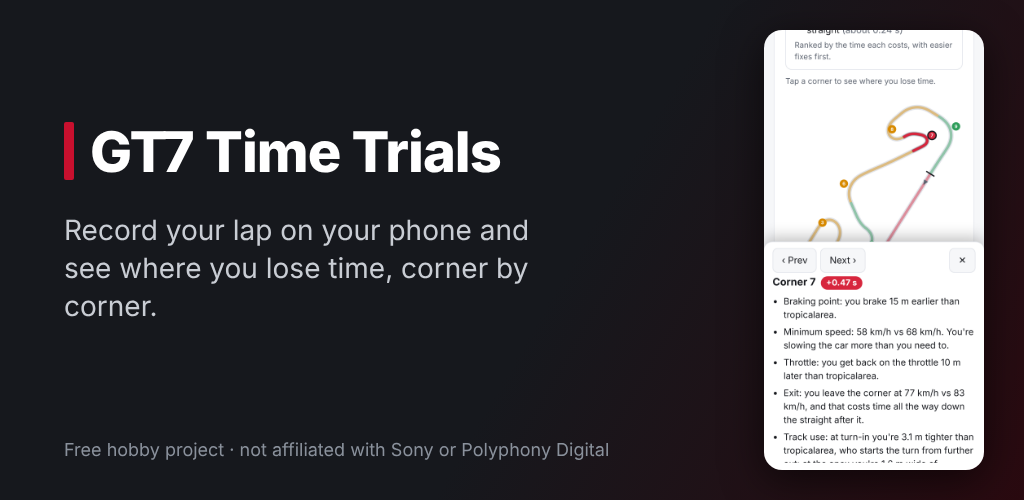
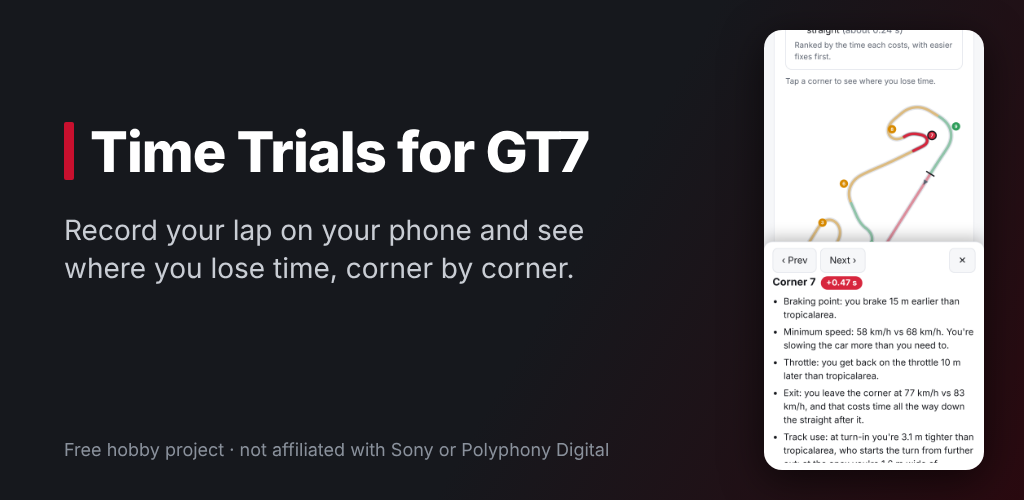
Android: ready for Google Play (API 36, Play bundle, new name) (#33)
* Android: target API 36 for Google Play, Play bundle signed with an upload key from secrets

Android 16 sends Back through OnBackInvokedCallback for apps targeting 36, so Back in the page uses that.
Branch builds are checked but no longer replace the test release.

Claude-Session: https://claude.ai/code/session_019VPhqUb8CvhbbqWw2Es8kT

* Name the app "Time Trials for GT7" for Google Play

Claude-Session: https://claude.ai/code/session_019VPhqUb8CvhbbqWw2Es8kT

---------

diff --git a/docs/play/feature.html b/docs/play/feature.html
@@ -1,14 +1,14 @@
 <html><head><style>
 body{margin:0;width:1024px;height:500px;overflow:hidden;font-family:-apple-system,"Segoe UI",Roboto,Helvetica,Arial,sans-serif;
  background:linear-gradient(120deg,#16181d 0%,#16181d 55%,#2a0a10 100%);color:#fff;position:relative}
-.t{position:absolute;left:64px;top:118px;width:520px}
+.t{position:absolute;left:64px;top:118px;width:640px}
 .bar{display:inline-block;width:10px;height:58px;background:#C8102E;vertical-align:-8px;margin-right:16px;border-radius:2px}
 h1{font-size:56px;margin:0;font-weight:800;letter-spacing:-1px}
-p{font-size:28px;line-height:1.35;color:#c9cdd4;margin:26px 0 0}
+p{font-size:28px;max-width:540px;line-height:1.35;color:#c9cdd4;margin:26px 0 0}
 small{position:absolute;left:64px;bottom:40px;font-size:18px;color:#8a919c}
 img{position:absolute;right:40px;top:30px;height:440px;border-radius:18px;box-shadow:0 10px 40px rgba(0,0,0,.6)}
 </style></head><body>
-<div class="t"><h1><span class="bar"></span>GT7 Time Trials</h1>
+<div class="t"><h1><span class="bar"></span>Time Trials for GT7</h1>
 <p>Record your lap on your phone and see where you lose time, corner by corner.</p></div>
 <small>Free hobby project · not affiliated with Sony or Polyphony Digital</small>
 <img src="phone-5.png">

diff --git a/android/app/src/main/java/io/github/gt7timetrials/MainActivity.java b/android/app/src/main/java/io/github/gt7timetrials/MainActivity.java
@@ -17,6 +17,8 @@ import android.os.Bundle;
 import android.os.Environment;
 import android.provider.MediaStore;
 import android.widget.FrameLayout;
+import android.window.OnBackInvokedCallback;
+import android.window.OnBackInvokedDispatcher;
 import android.view.WindowInsets;
 import android.view.WindowManager;
 import android.webkit.JavascriptInterface;
@@ -43,6 +45,7 @@ public class MainActivity extends Activity {
     private Recorder recorder;
     private Thread recorderThread;
     private ValueCallback<Uri[]> fileCallback;
+    private OnBackInvokedCallback back; // Android 13+: Back goes back in the page while there's somewhere to go
 
     @Override
     protected void onCreate(Bundle state) {
@@ -77,6 +80,11 @@ public class MainActivity extends Activity {
                 if ("gt7-timetrials.github.io".equals(url.getHost())) return false;
                 openOutside(url);
                 return true;
+            }
+
+            @Override
+            public void doUpdateVisitedHistory(WebView view, String url, boolean isReload) {
+                updateBack();
             }
         });
         web.setWebChromeClient(new WebChromeClient() {
@@ -125,8 +133,21 @@ public class MainActivity extends Activity {
         web.saveState(out);
     }
 
+    /** Android 13+: catch Back only while the page has history, so otherwise Back leaves the app as usual. */
+    private void updateBack() {
+        if (Build.VERSION.SDK_INT < 33) return;
+        OnBackInvokedDispatcher d = getOnBackInvokedDispatcher();
+        if (web.canGoBack() && back == null) {
+            back = () -> web.goBack();
+            d.registerOnBackInvokedCallback(OnBackInvokedDispatcher.PRIORITY_DEFAULT, back);
+        } else if (!web.canGoBack() && back != null) {
+            d.unregisterOnBackInvokedCallback(back);
+            back = null;
+        }
+    }
+
     @Override
-    public void onBackPressed() {
+    public void onBackPressed() { // Android 12 and older
         if (web.canGoBack()) web.goBack();
         else super.onBackPressed();
     }

diff --git a/docs/android.md b/docs/android.md
@@ -23,7 +23,13 @@ phone** instead of the computer recorder's download links.
 the `android-test` release:
 https://github.com/gt7-timetrials/gt7-timetrials.github.io/releases/download/android-test/gt7-timetrials.apk
 Test builds are signed with `android/app/test.keystore` (password in `app/build.gradle`), so each one installs over
-the last. A Google Play release will need a private upload key instead.
+the last. Builds of other branches are only checked, not published.
+
+**Google Play:** the app targets Android 16 (API 36), as Play requires for new apps since 31 August 2026. Once the
+repository has the secrets `UPLOAD_KEYSTORE_BASE64` (the upload keystore, base64) and `UPLOAD_KEYSTORE_PASSWORD`
+(its password, also used for the key, alias `upload`), each main build also makes `gt7-timetrials-play.aab`
+(`gradle bundlePlay`), signed with that key, and puts it on the same release page, for uploading to the Play
+Console. Google re-signs it for users (Play App Signing); a lost upload key can be reset through the Play Console.
 
 **Tests:** `tests/test_gt7tt.py` (`AndroidRecorderTest`) compiles the recorder with plain `javac`, checks it decodes
 packets like the Python recorder, and records a lap from a fake PlayStation on the same computer.

diff --git a/docs/play-listing.md b/docs/play-listing.md
@@ -4,7 +4,7 @@ Everything to paste into the Play Console, and how to answer its forms. Images a
 
 ## Store listing (Grow users → Store presence → Main store listing)
 
-**App name** (30 max): `GT7 Time Trials`
+**App name** (30 max): `Time Trials for GT7` (the "for GT7" form, so it reads as a companion app, not an official one)
 
 **Short description** (80 max):
 
